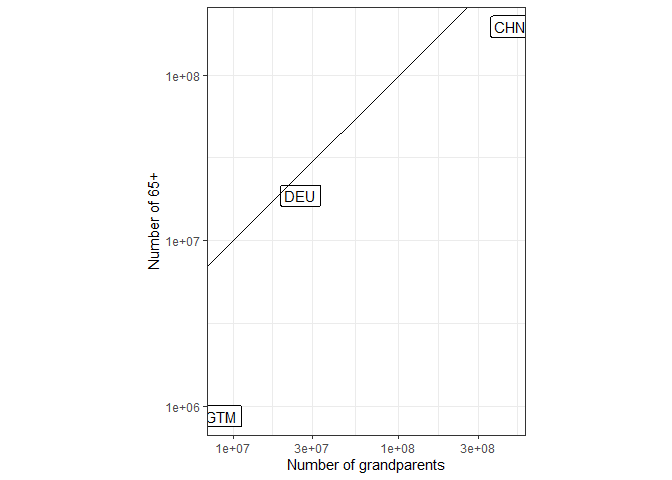
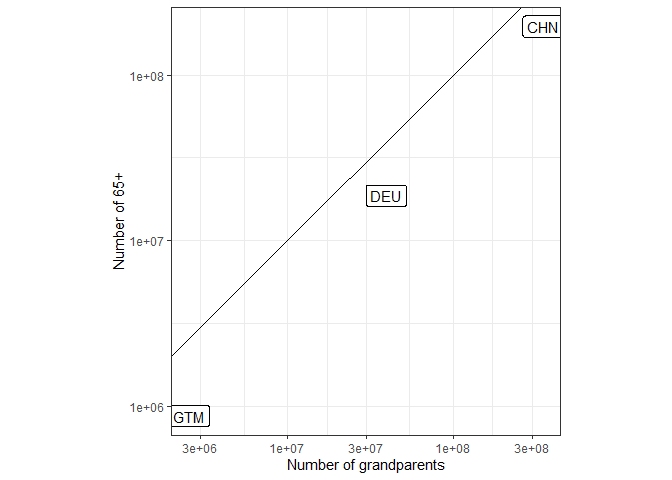
demokin estaimtes update

diff --git a/README.md b/README.md
@@ -295,7 +295,8 @@ period_kin <-
   select(Location, kin, year, age_focal, count_living) %>% 
   mutate(
     count_living = count_living*4
-    , kin = ifelse(kin == "gm", "grandparents", "grandchildren"))
+    , kin = ifelse(kin == "gm", "grandparents", "grandchildren")
+    )
 ```
 
 # 3\. Average number of granpdarent/grandchildren
@@ -683,20 +684,63 @@ pop <-
     ## [1] "Getting pop data for China, Guatemala, Germany"
 
 ``` r
-num_gp <- 
+pp <- 
   period_kin %>% 
-  filter(kin == "grandparents") %>% 
   rename(age = age_focal) %>% 
   mutate(iso3 = countrycode(Location, origin = "country.name", destination = "iso3c")) %>% 
   pivot_wider(names_from = kin, values_from = count_living) %>% 
-  left_join(pop, by = c("iso3", "year", "age")) %>% 
+  left_join(pop, by = c("iso3", "year", "age"))
+
+# Option 1: assume 4 granchildren
+
+# num_gp1 <- 
+#   pp %>% 
+#   mutate(
+#     number_grandparents = pop_un*grandparents/4
+#     , number_grandparents = ifelse(is.infinite(number_grandparents), 0, number_grandparents)
+#     , share_grandparents = grandparents/4
+#     # same as
+#     # , share_grandparents = number_grandparents/pop_un
+#     ) 
+
+# OPTION 2: get number of granchildren from average age of grandparents
+# get mean number of grandchildren at each age
+mean_gc <-
+  period_kin_temp %>% 
+  filter(kin == "gm") %>% 
+  select(Location, year, age_focal, mean_age) %>% 
   mutate(
-    # pop_gp = pop_un*(grandparents/grandchildren)
-    number_grandparents = pop_un*grandparents/4
+    mean_age = round(age_focal + mean_age, 0)
+    , mean_age = ifelse(mean_age > 100 | is.na(mean_age), 100, mean_age)
+    ) %>% 
+  rename(age_gc = age_focal) %>% 
+  left_join(
+    period_kin_temp %>% 
+      filter(kin == "gd") %>% 
+      # To include male granchildren
+      mutate(
+        count_living = count_living*4
+        # Since focal is included in the count, substract 1??
+        # , count_living = count_living - 1
+        ) %>% 
+      select(Location, year, age_focal, number_gc = count_living)
+    , by = c("Location", "year", "mean_age" = 'age_focal')
+  ) %>% 
+    rename(age_gp = mean_age) %>% 
+    arrange(Location, year, age_gp) %>% 
+  mutate(iso3 = countrycode(Location, origin = "country.name", destination = "iso3c")) %>% 
+  select(-Location, - age_gp)
+
+
+num_gp <-
+  pp %>% 
+  left_join(mean_gc, by = c("iso3", "year", "age" = "age_gc")) %>% 
+    mutate(
+    number_grandparents = pop_un*grandparents/number_gc
     , number_grandparents = ifelse(is.infinite(number_grandparents), 0, number_grandparents)
     , share_grandparents = number_grandparents/pop_un
     ) 
-  # select(iso3, year, age, pop_un, number_grandparents, share_grandparents)
+
 
 # Sum over all ages 
 
@@ -737,9 +781,9 @@ print(num_gp_sum)
     ## # A tibble: 3 x 5
     ##   iso3   year number_grandparents share_grandparents     pop_un
     ##   <chr> <int>               <dbl>              <dbl>      <int>
-    ## 1 CHN    2022          471538367.              0.331 1425887358
-    ## 2 DEU    2022           25504177.              0.306   83369866
-    ## 3 GTM    2022            8511910.              0.477   17843934
+    ## 1 CHN    2022          348632643.              0.245 1425887358
+    ## 2 DEU    2022           39553312.              0.474   83369866
+    ## 3 GTM    2022            2548301.              0.143   17843934
 
 Quality check: plot against number of 65+
 
